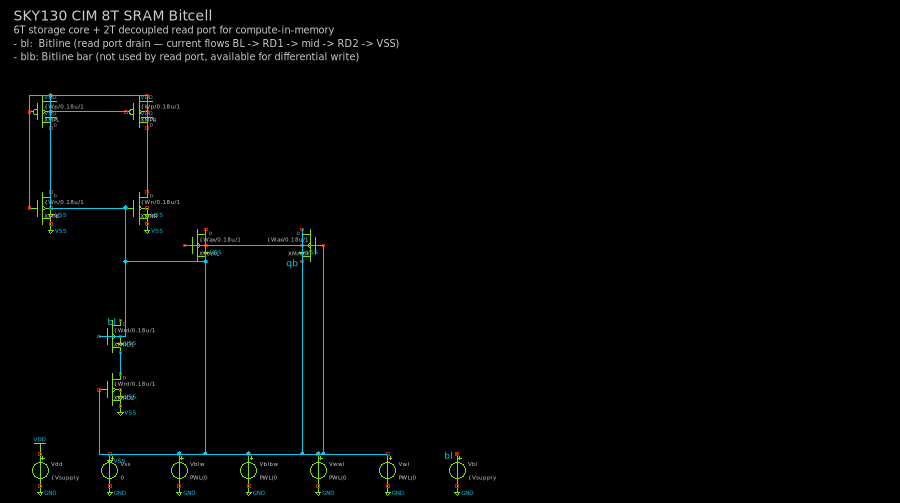
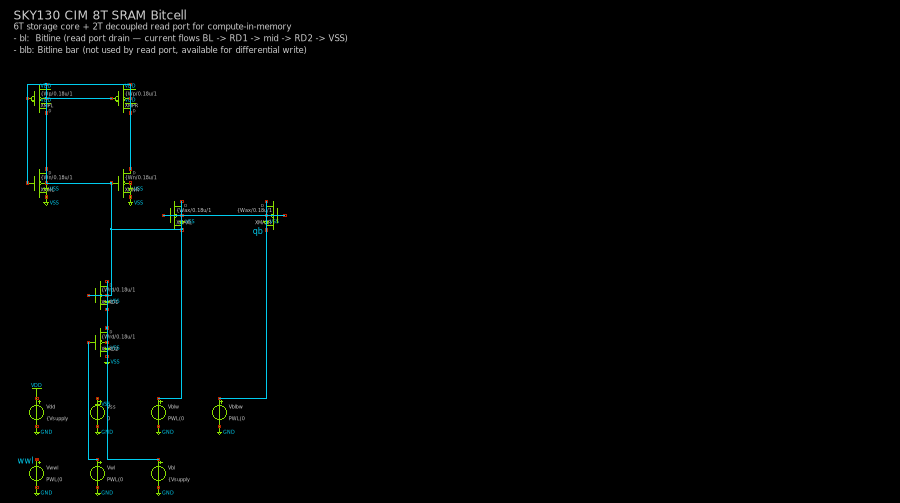
Source grid layout: max 4 columns instead of one wide row
- Limits source placement to 4 columns, wrapping to multiple rows
- Reduces horizontal spread for circuits with many sources (bitcell: 7 sources)

diff --git a/src/placer.py b/src/placer.py
@@ -907,15 +907,15 @@ def place_circuit(circuit: Circuit) -> PlacedCircuit:
 
     # === Stage 4: Place sources compactly BELOW the circuit ===
     if sources:
-        # Find the bottom and left of the circuit so far
-        all_y = [p.y for p in result.placements.values()] if result.placements else [0]
-        all_x = [p.x for p in result.placements.values()] if result.placements else [300]
-        src_y_start = max(all_y) + 150
-        src_x_start = min(all_x)
-        # Use enough columns to fit in 2 rows max
-        src_cols = len(sources)  # All in one row
-        for i, name in enumerate(sources):
-            if name not in result.placements:
+        unplaced_sources = [s for s in sources if s not in result.placements]
+        if unplaced_sources:
+            all_y = [p.y for p in result.placements.values()] if result.placements else [0]
+            all_x = [p.x for p in result.placements.values()] if result.placements else [300]
+            src_y_start = max(all_y) + 150
+            src_x_start = min(all_x)
+            # Use a grid: max 4 columns to keep width reasonable
+            src_cols = min(len(unplaced_sources), 4)
+            for i, name in enumerate(unplaced_sources):
                 row = i // src_cols
                 col = i % src_cols
                 result.placements[name] = Placement(
